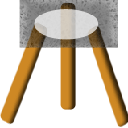
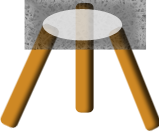
Design changes in StartScreen.

diff --git a/trunk/src/br/edu/ifsp/pds/shadowstruggles/screens/StartScreen.java b/trunk/src/br/edu/ifsp/pds/shadowstruggles/screens/StartScreen.java
@@ -58,8 +58,9 @@ public class StartScreen extends BaseScreen {
 
 		tableTexture = new Image(this.getSkin().getDrawable("table_texture"));
 		book = new Image(this.getSkin().getDrawable("book"));
-		book.setX(book.getX() - 10);
-		book.setY(book.getY() + 20);
+		book.setScale(0.9f);
+		book.setX(book.getX() + 50);
+		book.setY(book.getY() + 10);
 		beaker = new Image(this.getSkin().getDrawable("beaker"));
 		candle = new Image(this.getSkin().getDrawable("candle"));
 		tripod = new Image(this.getSkin().getDrawable("tripod"));
@@ -118,14 +119,14 @@ public class StartScreen extends BaseScreen {
 		});
 
 		Table table = new Table();
-		table.defaults().padTop(50).width(310).height(200);
+		table.defaults().padTop(30).width(150).height(130);
 
 		if (game.getMode() == RunMode.DEBUG)
 			table.debug();
 
-		table.add(beaker).left();
-		table.add(candle);
-		table.add(tripod);
+		table.add(beaker).left().padRight(270);
+		table.add(candle).width(190);
+		table.add(tripod).padLeft(250);
 		table.row();
 
 		Table menu = new Table();
